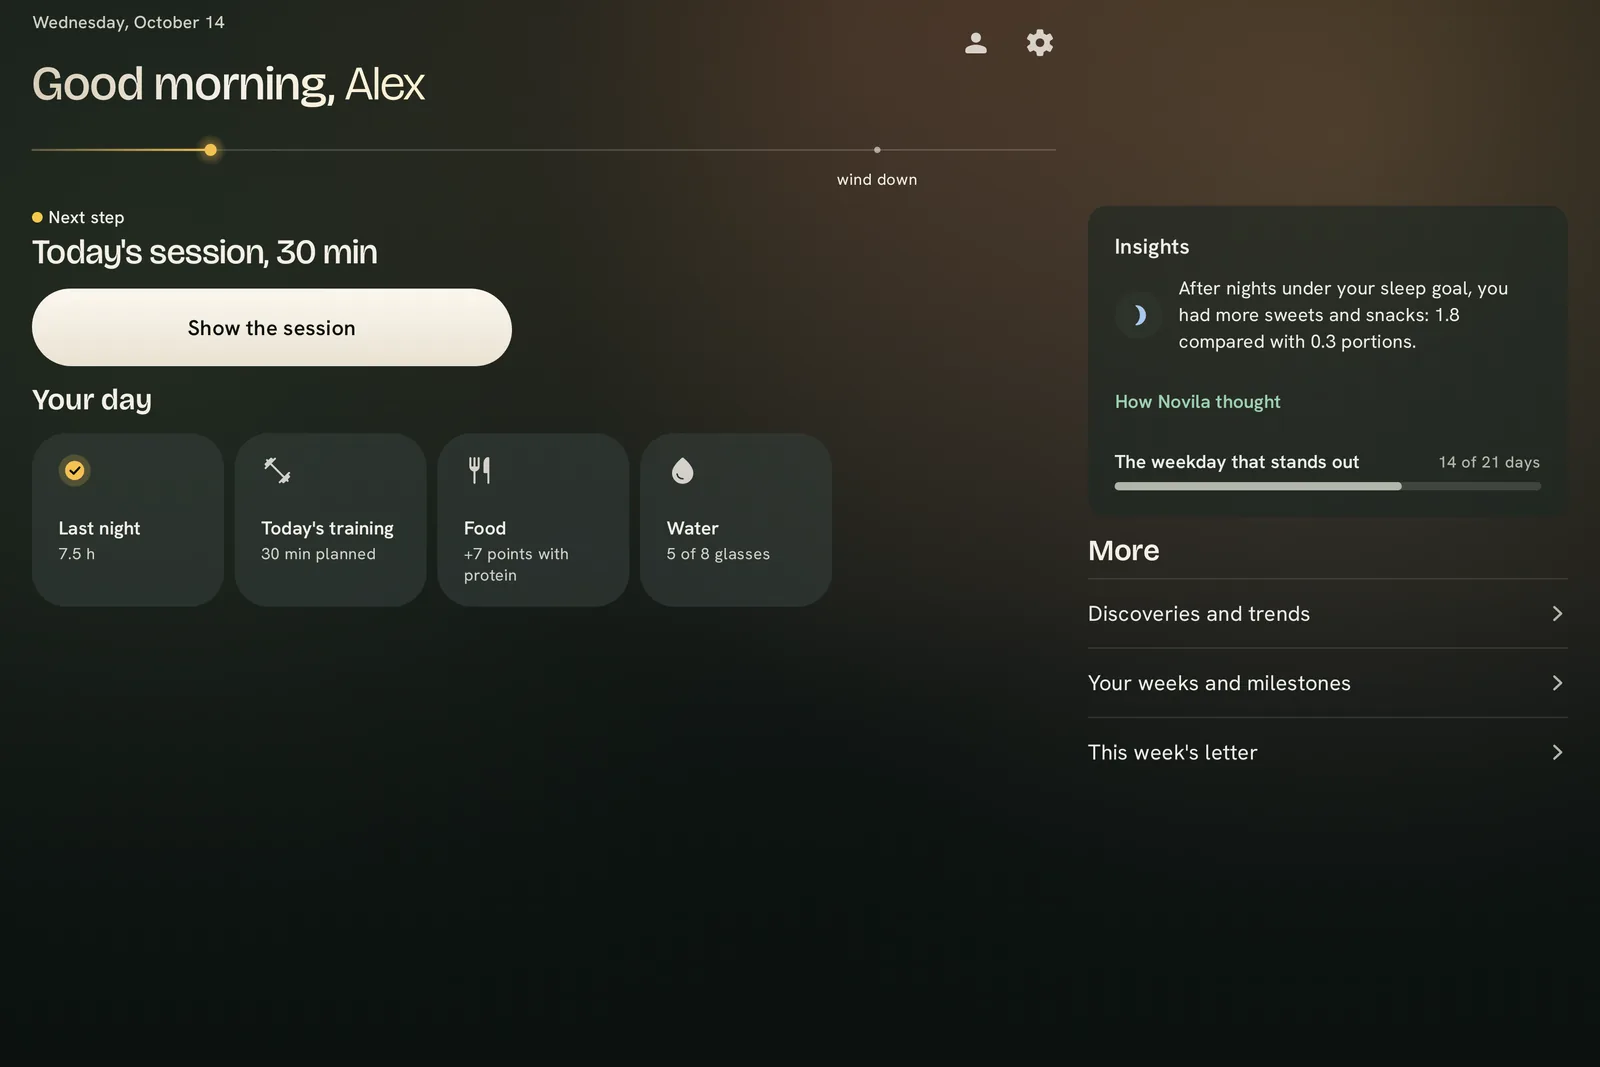
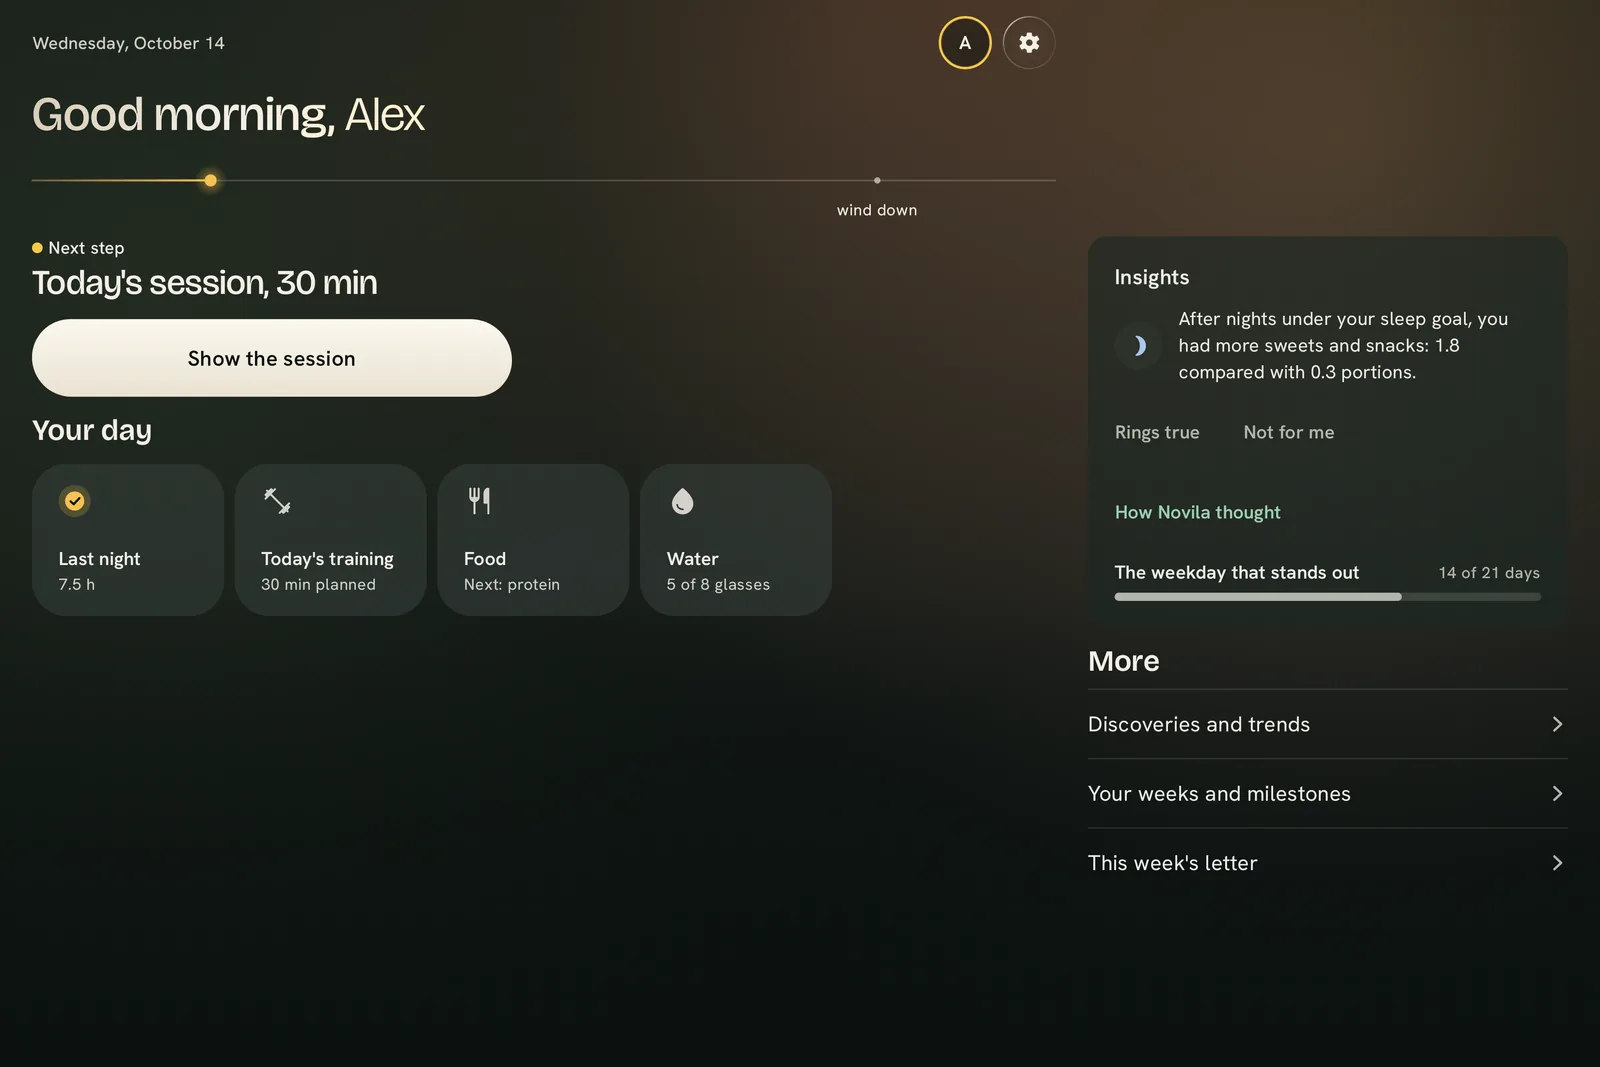
Home page: offline, fast and private first, and how Novila adapts
The promises under the headline are now "Works offline", "No account",
"No ads" and "No AI", and the privacy section says Novila has no
internet permission and is fast because everything lives on the phone,
in place of the missed-day fact. A new section, "Shaped around you",
covers the direction, "Not for me" and two-week experiments, the same as
the app's intro. The app's screens are cut anew from its references
(tools/site/screens.py), so Today and the tablet no longer show the
balance, and their alt texts say what they show now.

Claude-Session: https://claude.ai/code/session_01RccZGHWGEaTVrRE3kddHow

diff --git a/site/home.sv.html b/site/home.sv.html
@@ -1,13 +1,14 @@
-<!-- description: Novila är en lugn vardagscoach för träning, sömn och kost. Den förklarar varför, och dina data lämnar aldrig telefonen. -->
+<!-- description: Novila är en lugn vardagscoach för träning, sömn och kost som fungerar helt utan nät. Den förklarar varför, och dina data lämnar aldrig telefonen. -->
     <section class="tile tile-hero">
       <div class="tile-text">
         <p class="eyebrow">Novila</p>
         <h1>Träning, sömn och kost. <span class="lit">Tillsammans.</span></h1>
         <div class="horizon" role="img" data-label="Där dagen är nu: %s" data-dawn="Gryning" data-day="Dag" data-dusk="Skymning" data-night="Natt"><span class="horizon-sun"></span><span class="horizon-now"></span></div>
-        <p class="sub">En lugn coach som säger vad som är nästa steg i dag, och varför. Allt stannar i telefonen.</p>
+        <p class="sub">En lugn coach som säger vad som är nästa steg i dag, och varför. Fungerar utan nät, och allt stannar i telefonen.</p>
         <ul class="promises" aria-label="Novilas löften">
+          <li>Fungerar offline</li>
+          <li>Inget konto</li>
           <li>Ingen reklam</li>
-          <li>Inga analysverktyg</li>
           <li>Ingen AI</li>
         </ul>
         <p class="invite"><a class="invite-button" href="https://forms.gle/PV5zamVMD7xa3Rnc8">Bli testare</a>
@@ -15,7 +16,7 @@
             Google-konto.</span></p>
       </div>
       <div class="hero-stage">
-        <div class="phone"><div class="phone-screen"><img src="/screens/today.webp" alt="Novilas Idag-skärm: dagens balans, din dag och insikter" width="600" height="1336"></div></div>
+        <div class="phone"><div class="phone-screen"><img src="/screens/today.webp" alt="Novilas Idag-skärm: hälsningen, nästa steg, din dag och en insikt" width="600" height="1336"></div></div>
       </div>
     </section>
 
@@ -47,7 +48,8 @@
         <div class="tile-text">
           <p class="eyebrow">Privat från grunden</p>
           <h2>Det du loggar är ditt.</h2>
-          <p class="sub">Ingen reklam och inga analysverktyg. Dina data finns i din telefon, och du kan spara en egen
+          <p class="sub">Ingen reklam, inget konto och inga analysverktyg. Novila har inte ens behörighet att använda
+            internet. Dina data finns i din telefon, och du kan spara en egen
             kopia eller radera allt när du vill.</p>
         </div>
         <div class="facts">
@@ -56,8 +58,8 @@
             <p>Ingen språkmodell. Planen och insikterna görs av tydliga regler som förklarar sig själva.</p>
           </div>
           <div class="fact">
-            <p class="fact-title">En missad dag bryter inget.</p>
-            <p>Vanor räknas i hela veckor, och vilodagar räknas också.</p>
+            <p class="fact-title">Snabb, utan nät.</p>
+            <p>Allt ligger i telefonen, så inget behöver laddas, i fjällen som i tunnelbanan.</p>
           </div>
           <div class="fact">
             <p class="fact-title">Ett samband, aldrig ett bevis.</p>
@@ -67,6 +69,28 @@
       </div>
       <div class="split-media">
         <div class="phone"><div class="phone-screen"><img src="/screens/insights.webp" alt="Insikter i Novila: vad som hänger ihop med dina nätter, var och en med hur många nätter den bygger på" width="600" height="1336" loading="lazy"></div></div>
+      </div>
+    </section>
+
+    <section class="tile tile-light">
+      <div class="tile-text">
+        <p class="eyebrow">Anpassar sig efter dig</p>
+        <h2>En coach som <span class="lit">formas efter dig.</span></h2>
+        <p class="sub">Dina mål, dina val och dina veckor styr vad som kommer härnäst.</p>
+      </div>
+      <div class="facts">
+        <div class="fact">
+          <p class="fact-title">Välj din riktning.</p>
+          <p>Sova bättre, mer ork, bli starkare eller äta bra. Förslagen följer den.</p>
+        </div>
+        <div class="fact">
+          <p class="fact-title">Dina val styr.</p>
+          <p>Säg Inte för mig, så kommer tipset aldrig tillbaka.</p>
+        </div>
+        <div class="fact">
+          <p class="fact-title">Testa själv.</p>
+          <p>Prova en vana i två veckor och se vad dina nätter säger. Det som fungerar får stanna.</p>
+        </div>
       </div>
     </section>
 
@@ -101,7 +125,7 @@
       </div>
       <div class="device-stage">
         <figure class="device-figure">
-          <div class="tablet"><div class="tablet-screen"><img src="/screens/tablet.webp" alt="Idag på en liggande surfplatta: balansen och din dag som fyra rutor, med insikterna bredvid" width="1600" height="1067" loading="lazy"></div></div>
+          <div class="tablet"><div class="tablet-screen"><img src="/screens/tablet.webp" alt="Idag på en liggande surfplatta: nästa steg och din dag, med insikten bredvid" width="1600" height="1067" loading="lazy"></div></div>
           <figcaption>Surfplatta</figcaption>
         </figure>
         <figure class="device-figure">

diff --git a/site/home.en.html b/site/home.en.html
@@ -1,13 +1,14 @@
-<!-- description: Novila is a calm everyday coach for training, sleep and food. It explains why, and your data never leaves your phone. -->
+<!-- description: Novila is a calm everyday coach for training, sleep and food that works fully offline. It explains why, and your data never leaves your phone. -->
     <section class="tile tile-hero">
       <div class="tile-text">
         <p class="eyebrow">Novila</p>
         <h1>Training, sleep and food. <span class="lit">Together.</span></h1>
         <div class="horizon" role="img" data-label="Where the day is now: %s" data-dawn="Dawn" data-day="Day" data-dusk="Dusk" data-night="Night"><span class="horizon-sun"></span><span class="horizon-now"></span></div>
-        <p class="sub">A calm coach that tells you what to do next today, and why. Everything stays on your phone.</p>
+        <p class="sub">A calm coach that tells you what to do next today, and why. Works offline, and everything stays on your phone.</p>
         <ul class="promises" aria-label="Novila's promises">
+          <li>Works offline</li>
+          <li>No account</li>
           <li>No ads</li>
-          <li>No analytics</li>
           <li>No AI</li>
         </ul>
         <p class="invite"><a class="invite-button" href="https://forms.gle/PV5zamVMD7xa3Rnc8">Become a tester</a>
@@ -15,7 +16,7 @@
             account.</span></p>
       </div>
       <div class="hero-stage">
-        <div class="phone"><div class="phone-screen"><img src="/screens/today.webp" alt="Novila's Today screen: today's balance, your day and insights" width="600" height="1336"></div></div>
+        <div class="phone"><div class="phone-screen"><img src="/screens/today.webp" alt="Novila's Today screen: the greeting, the next step, your day and an insight" width="600" height="1336"></div></div>
       </div>
     </section>
 
@@ -47,7 +48,8 @@
         <div class="tile-text">
           <p class="eyebrow">Private by design</p>
           <h2>What you log is yours.</h2>
-          <p class="sub">No ads and no analytics. Your data lives on your phone, and you can save your own copy or delete
+          <p class="sub">No ads, no account and no analytics. Novila doesn't even have permission to use the
+            internet. Your data lives on your phone, and you can save your own copy or delete
             everything whenever you like.</p>
         </div>
         <div class="facts">
@@ -56,8 +58,8 @@
             <p>No language model. The plan and the insights come from clear rules that explain themselves.</p>
           </div>
           <div class="fact">
-            <p class="fact-title">A missed day breaks nothing.</p>
-            <p>Habits count in whole weeks, and rest days count too.</p>
+            <p class="fact-title">Fast, no connection.</p>
+            <p>Everything lives on your phone, so nothing has to load, on a mountain or on the metro.</p>
           </div>
           <div class="fact">
             <p class="fact-title">A correlation, never proof.</p>
@@ -67,6 +69,28 @@
       </div>
       <div class="split-media">
         <div class="phone"><div class="phone-screen"><img src="/screens/insights.webp" alt="Insights in Novila: what goes with your nights, each with how many nights it is based on" width="600" height="1336" loading="lazy"></div></div>
+      </div>
+    </section>
+
+    <section class="tile tile-light">
+      <div class="tile-text">
+        <p class="eyebrow">Shaped around you</p>
+        <h2>A coach that <span class="lit">adapts to you.</span></h2>
+        <p class="sub">Your goals, your choices and your weeks steer what comes next.</p>
+      </div>
+      <div class="facts">
+        <div class="fact">
+          <p class="fact-title">Pick your direction.</p>
+          <p>Sleep better, more energy, get stronger or eat well. The suggestions follow it.</p>
+        </div>
+        <div class="fact">
+          <p class="fact-title">Your choices steer.</p>
+          <p>Say Not for me, and that tip never comes back.</p>
+        </div>
+        <div class="fact">
+          <p class="fact-title">Test it yourself.</p>
+          <p>Try a habit for two weeks and see what your nights say. What works gets to stay.</p>
+        </div>
       </div>
     </section>
 
@@ -101,7 +125,7 @@
       </div>
       <div class="device-stage">
         <figure class="device-figure">
-          <div class="tablet"><div class="tablet-screen"><img src="/screens/tablet.webp" alt="Today on a landscape tablet: the balance and your day as four tiles, with the insights beside them" width="1600" height="1067" loading="lazy"></div></div>
+          <div class="tablet"><div class="tablet-screen"><img src="/screens/tablet.webp" alt="Today on a landscape tablet: the next step and your day, with the insight beside them" width="1600" height="1067" loading="lazy"></div></div>
           <figcaption>Tablet</figcaption>
         </figure>
         <figure class="device-figure">

diff --git a/site/style.css b/site/style.css
@@ -366,7 +366,7 @@ html[data-light] .horizon {
   transform: translateX(-50%);
 }
 
-/* The three promises under the headline: glass pills, each with a small sun. */
+/* The promises under the headline: glass pills, each with a small sun. */
 
 .promises {
   display: flex;
